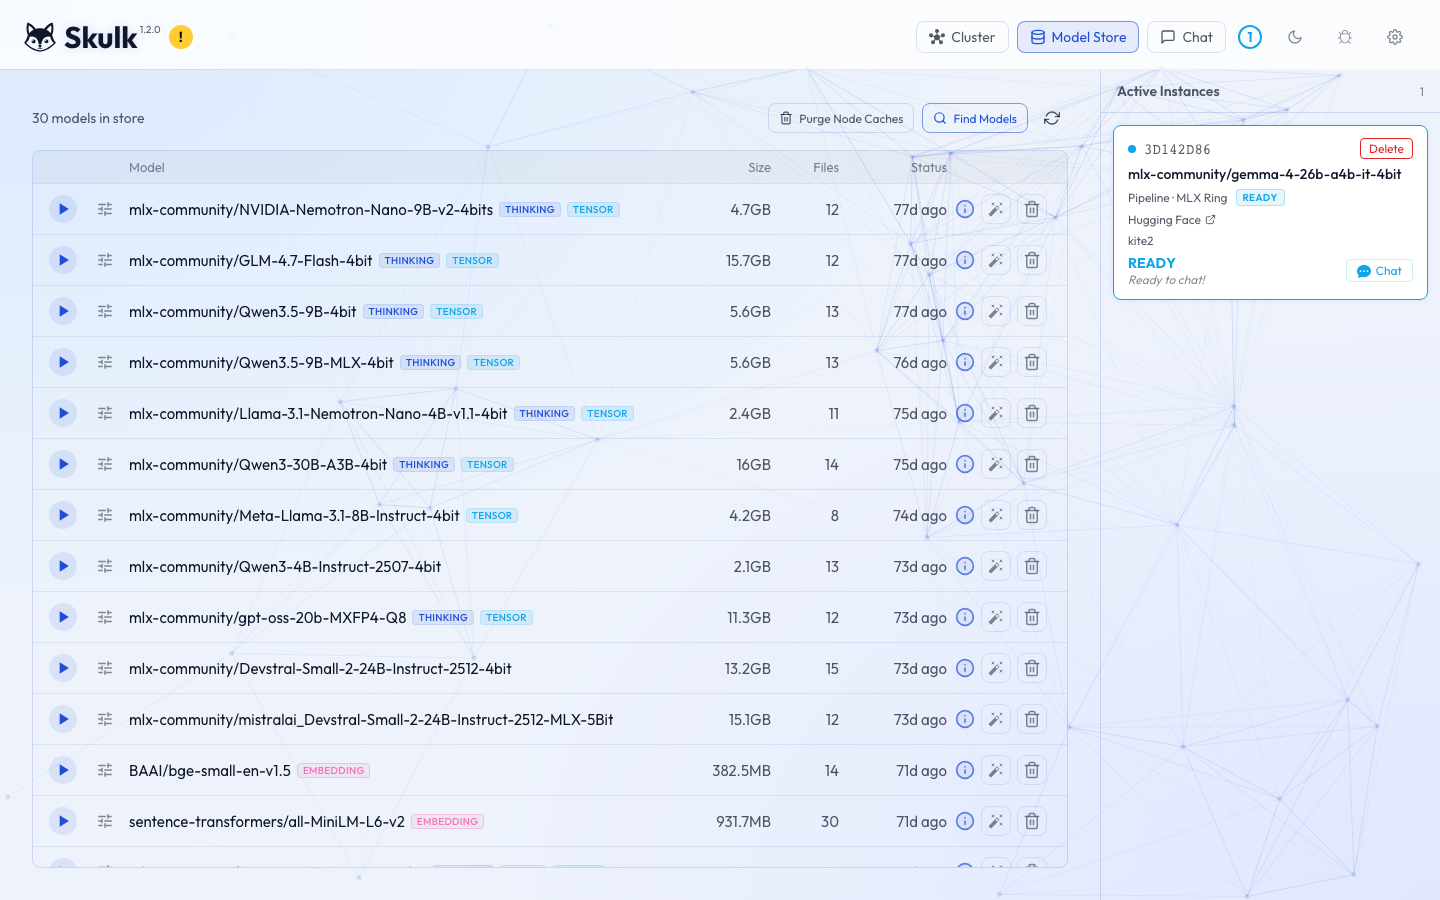
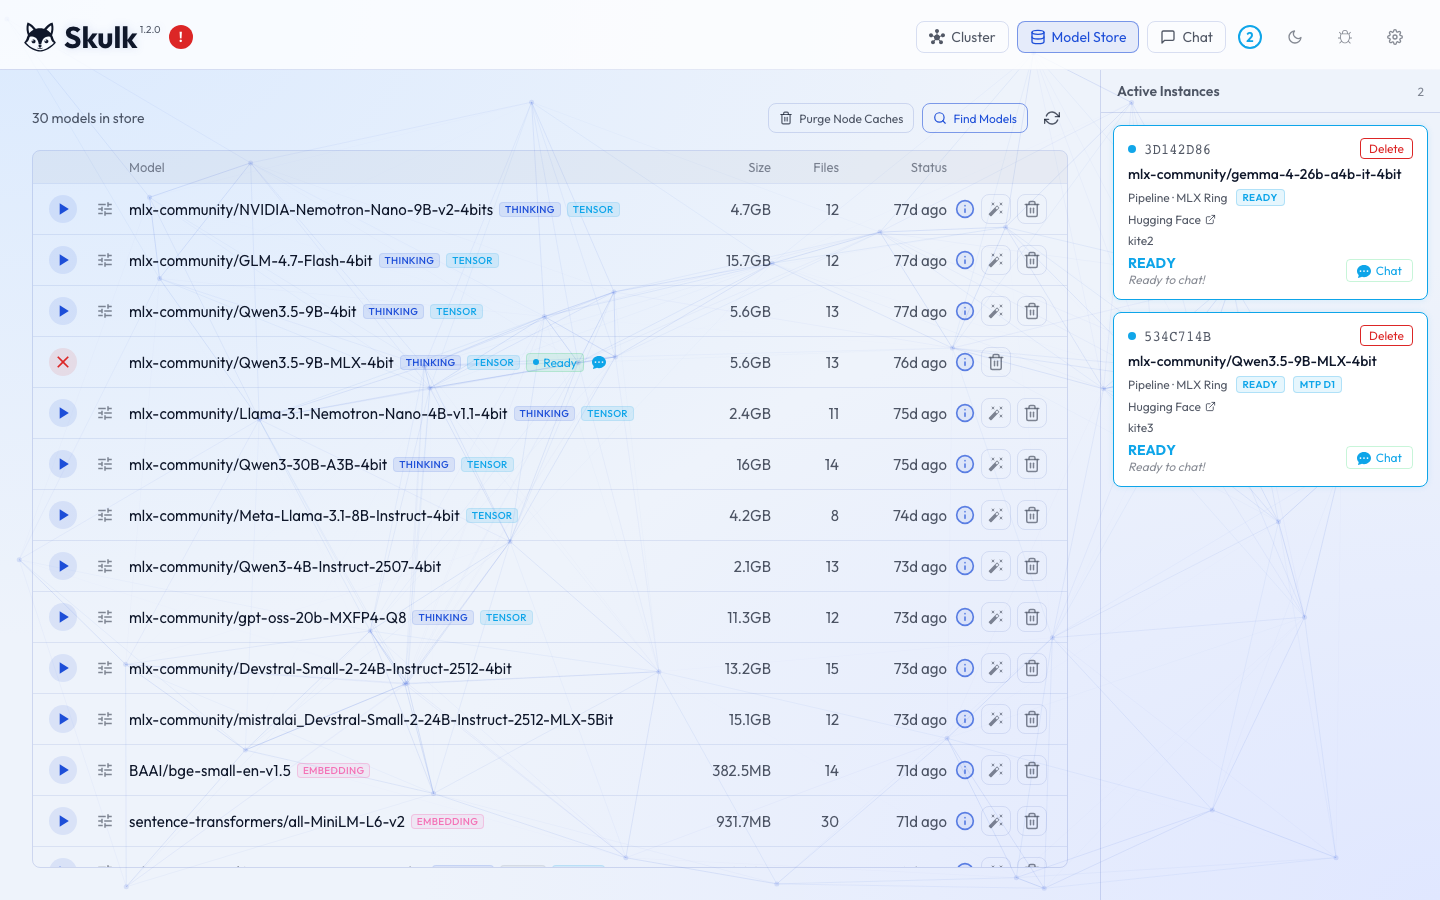
docs(readme): re-shoot dashboard screenshots with a speculating instance visible
A Qwen3.5-9B sidecar-MTP instance now runs beside the 4-node Gemma MoE,
so the active-instances panel shows the MTP D1 badge in every shot. The
Gemma card correctly shows no badge: its card sets
speculative_multi_node=false because drafting measured slower than plain
decode on sharded placements of this MoE, and the badge reflects what is
actually running.

diff --git a/README.md b/README.md
@@ -223,7 +223,7 @@ The normal dashboard flow is: confirm topology, launch a model, wait for it to b
 <p align="center">
   <img src="docs/imgs/dash-1.png" alt="Skulk dashboard cluster view: a four-node topology serving a Gemma 4 MoE placement" width="80%" />
 </p>
-<p align="center"><em>Start here: confirm the node or cluster looks healthy in the cluster view. Shown: a Gemma 4 MoE placed across all four nodes of a live cluster, with per-node memory, GPU, and temperature at a glance.</em></p>
+<p align="center"><em>Start here: confirm the node or cluster looks healthy in the cluster view. Shown: a Gemma 4 MoE placed across all four nodes of a live cluster alongside a single-node Qwen instance running speculative decoding (the MTP D1 badge), with per-node memory, GPU, and temperature at a glance.</em></p>
 
 <p align="center">
   <img src="docs/imgs/dash-2.png" alt="Skulk dashboard model store with the active instance panel" width="80%" />